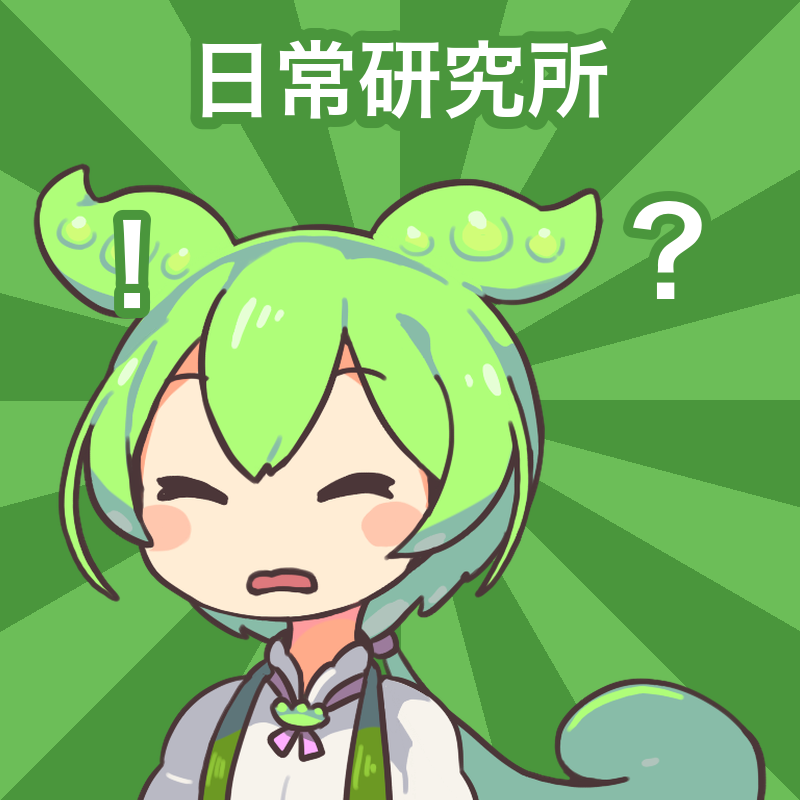
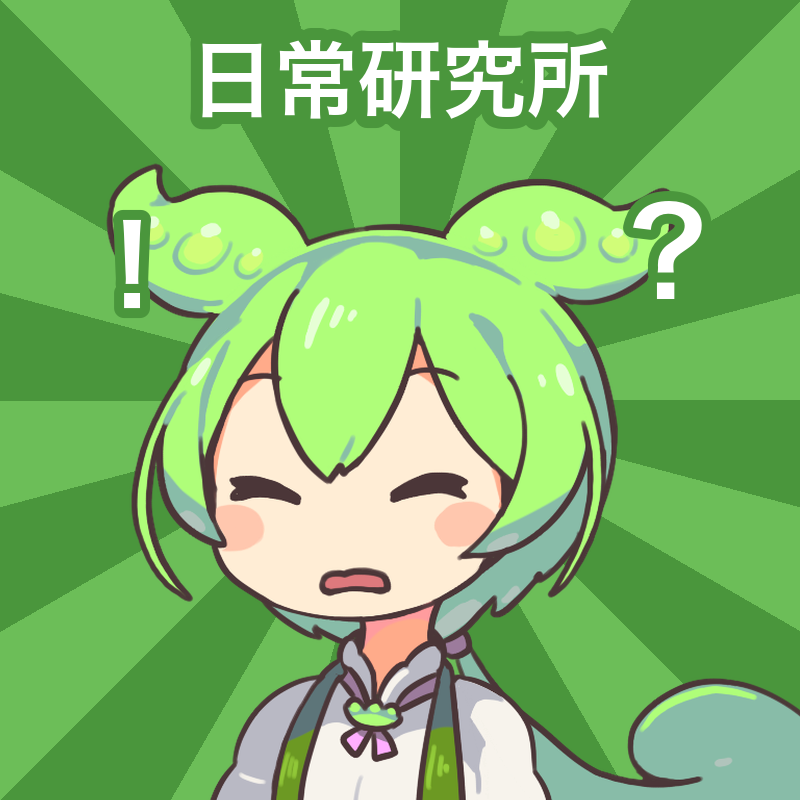
アイコン修正: ずんだもんの顔を真ん中に（前髪・尻尾髪の非対称を目視補正+55px）

diff --git a/scripts/gen_channel_icon.py b/scripts/gen_channel_icon.py
@@ -44,11 +44,19 @@ def make_icon() -> Image.Image:
                    (S / 2 + math.cos(a) * 900, S / 2 + math.sin(a) * 900),
                    (S / 2 + math.cos(a2) * 900, S / 2 + math.sin(a2) * 900)],
                   fill=ZUNDA_DK)
-    # ずんだもん顔アップ（中央）
+    # ずんだもん顔アップ（顔の重心を実測して水平センタリング）
     sp = Image.open("assets/characters/zundamon/happy.png")
+    import numpy as np
+    alpha = np.array(sp)[:, :, 3]
+    hh, ww = alpha.shape
+    band = alpha[int(hh * 0.22):int(hh * 0.42), :].sum(axis=0).astype(float)
+    face_cx = (band * np.arange(ww)).sum() / band.sum()
     w = 760
     sp = sp.resize((w, int(sp.height * w / sp.width)), Image.LANCZOS)
-    img.paste(sp, ((S - w) // 2, 150), sp)
+    # 前髪と尻尾髪の非対称のぶんは目視で補正（+55px）
+    FACE_OFFSET = 55
+    px = int(S / 2 - face_cx * w / ww) + FACE_OFFSET
+    img.paste(sp, (px, 150), sp)
     d = ImageDraw.Draw(img)
     # チャンネル名と！？
     ctext(d, S / 2, 80, "日常研究所", font(84), (255, 255, 255), stroke=ZUNDA_DK, sw=12)
